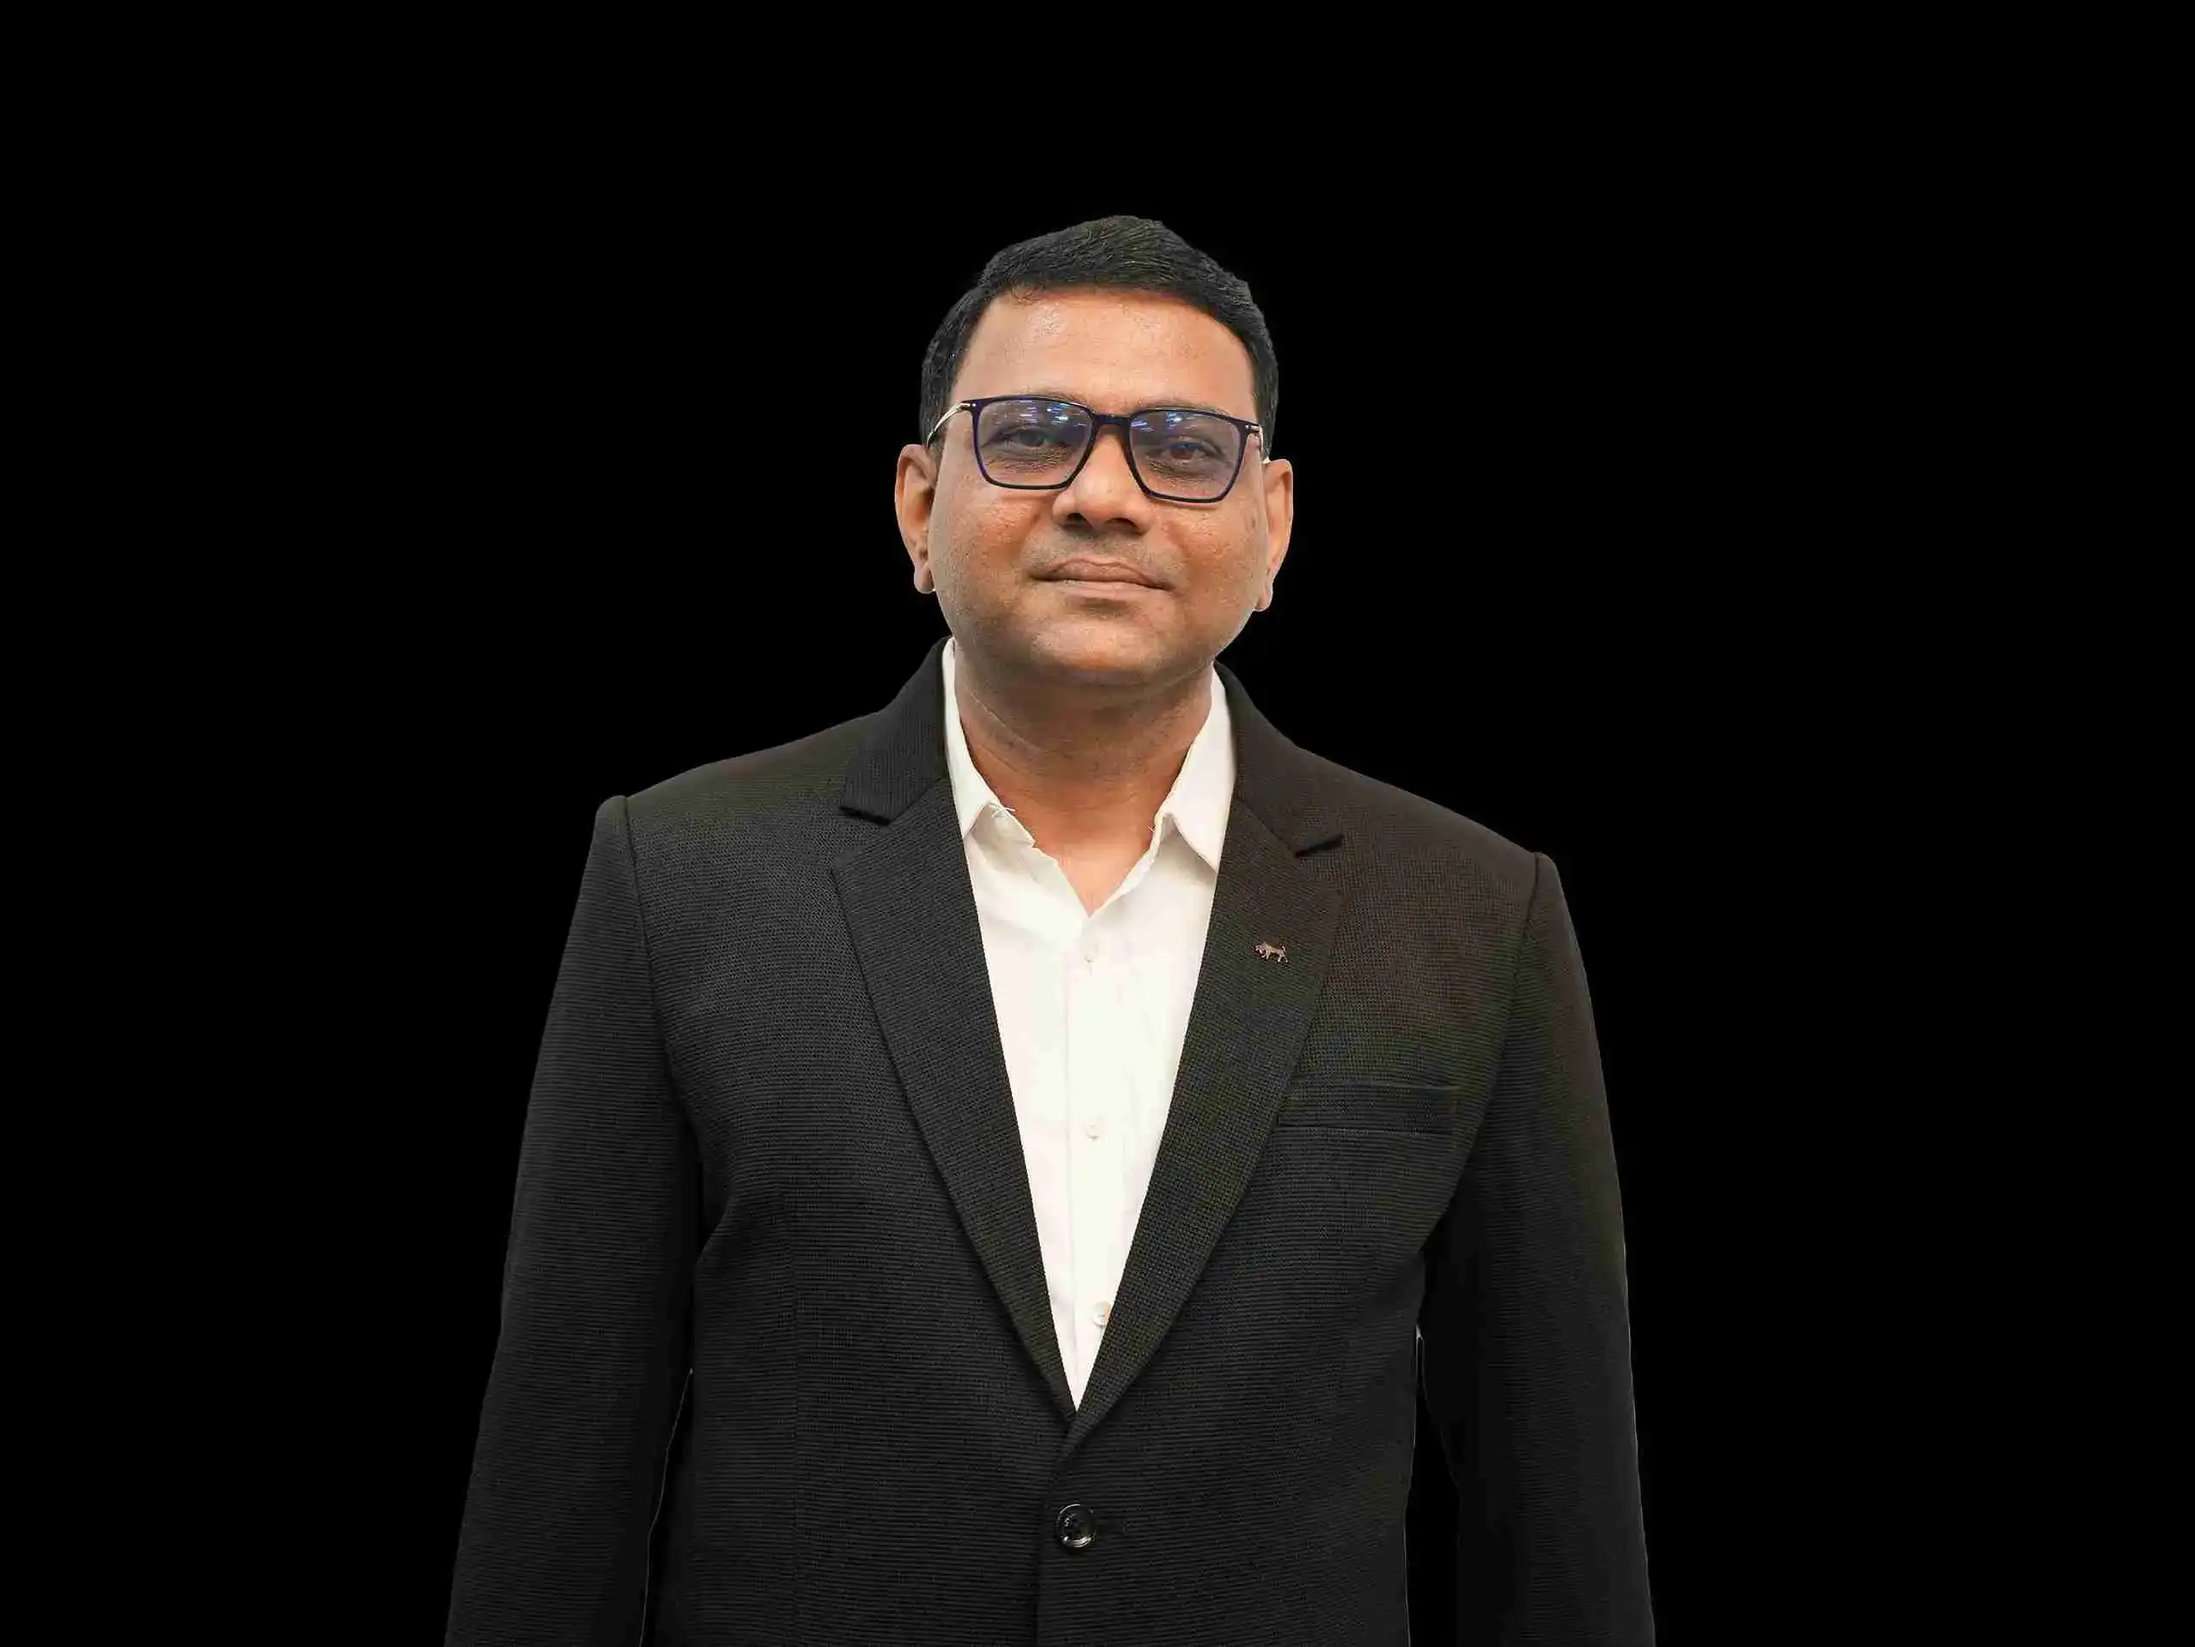
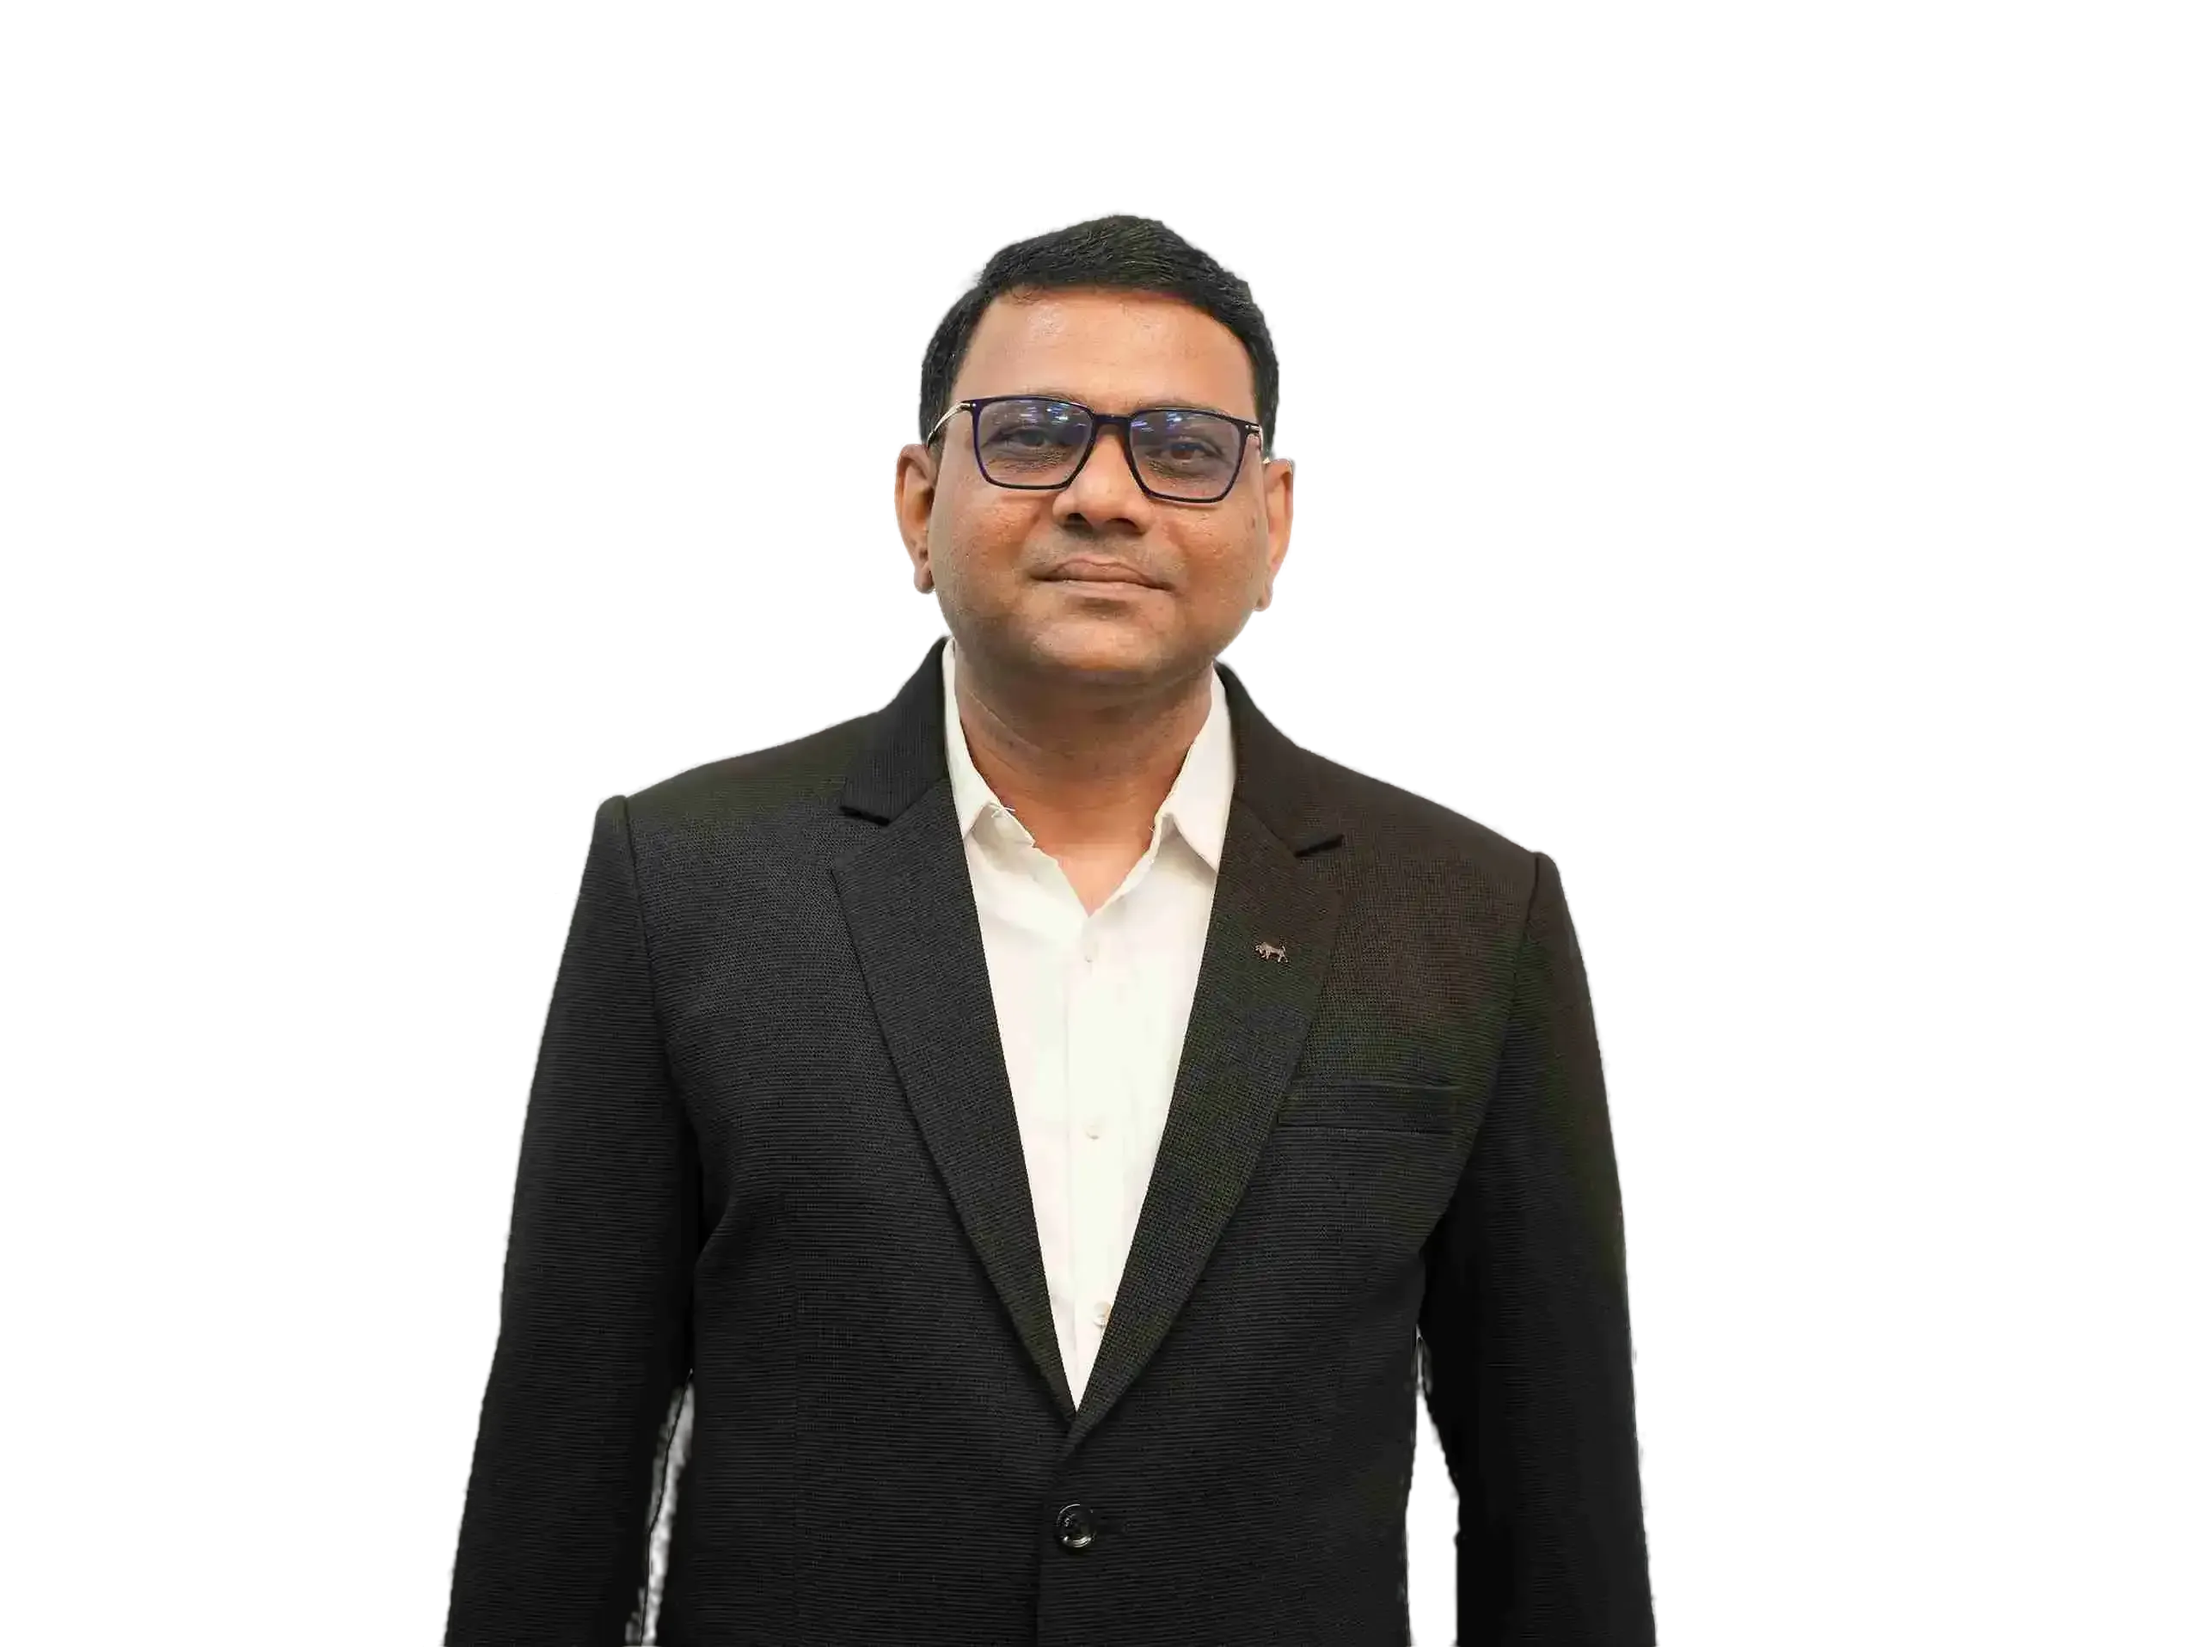
gradient background in faculty image

diff --git a/faculty.html b/faculty.html
@@ -104,6 +104,7 @@
 
       .card img {
         object-fit: cover;
+        background: linear-gradient(to bottom, #2b5876, #4e4376);
         width: 100%;
         height: 300px;
         border-top-left-radius: 10px;
